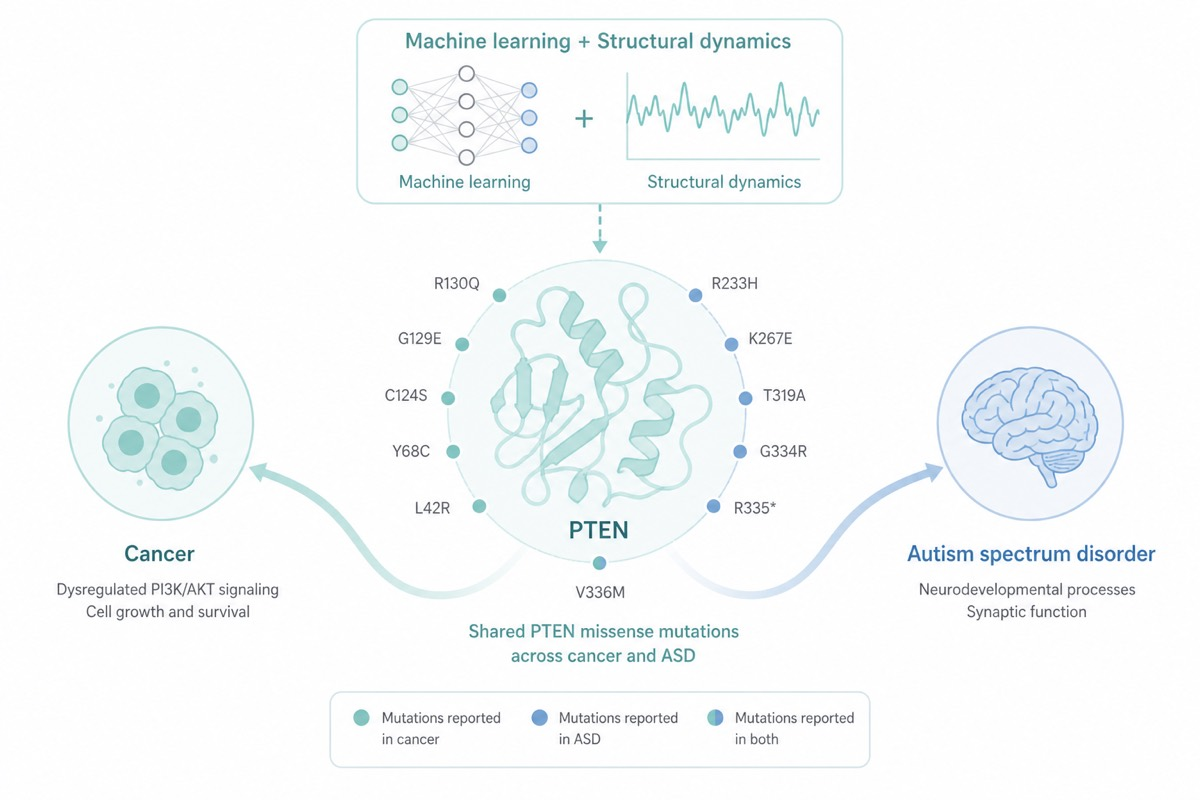
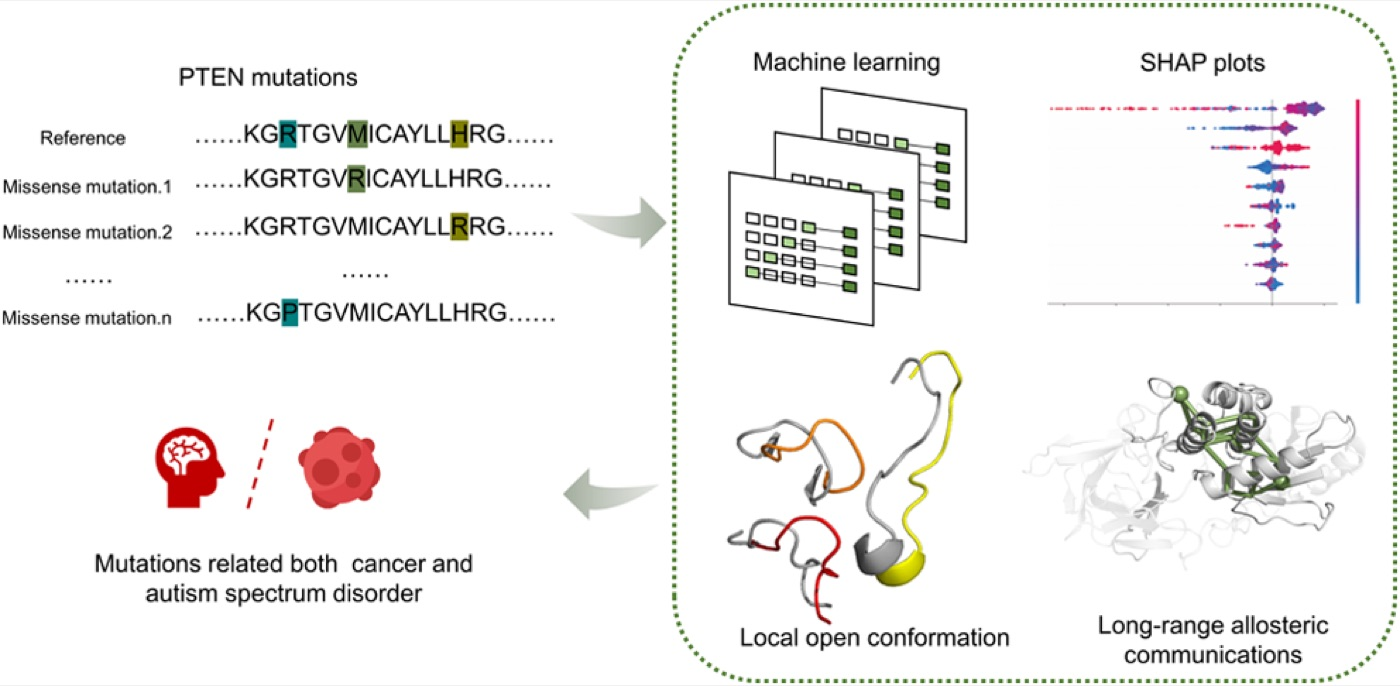
Align research rows and use paper TOC graphics for publications.

diff --git a/src/i18n.ts b/src/i18n.ts
@@ -86,15 +86,18 @@ export const copy = {
     interests: [
       {
         title: 'Multimodal integration',
-        body: 'Integrating heterogeneous biomedical modalities—especially electronic health records (EHR) and genomics—into coherent representations for discovery and clinical use.',
+        body: 'Integrating heterogeneous biomedical modalities—especially electronic health records (EHR) and genome variants—into coherent representations for discovery and clinical use.',
+        figure: '/figures/research-1.jpg',
       },
       {
         title: 'Foundation model alignment',
         body: 'Aligning foundation models and adapting them to continuous biomedical data streams and longitudinal signals.',
+        figure: '/figures/research-2.jpg',
       },
       {
         title: 'Model–device integration',
         body: 'Embedding models with instruments and devices so learning systems can operate closer to real-world measurement and care workflows.',
+        figure: '/figures/research-3.jpg',
       },
     ],
     publicationsTitle: 'Publications',
@@ -143,15 +146,18 @@ export const copy = {
     interests: [
       {
         title: '多模态整合',
-        body: '整合异构生物医学模态，尤其关注电子健康档案（EHR）与基因组学数据的联合建模。',
+        body: '整合异构生物医学模态，尤其关注电子健康档案（EHR）与基因组变异（genome variants）的联合建模。',
+        figure: '/figures/research-1.jpg',
       },
       {
         title: '基础模型对齐',
         body: '对 Foundational Model 进行对齐，并应用于连续型生物医学数据与时序信号。',
+        figure: '/figures/research-2.jpg',
       },
       {
         title: '模型与设备整合',
         body: '将模型嵌入仪器与 device，使学习系统更贴近真实测量与临床工作流。',
+        figure: '/figures/research-3.jpg',
       },
     ],
     publicationsTitle: '发表论文',

diff --git a/src/App.tsx b/src/App.tsx
@@ -113,25 +113,25 @@ export default function App() {
           <div className="section__inner">
             <h2 className="section__title">{t.researchTitle}</h2>
             <p className="section__lead">{t.researchIntro}</p>
-            <div className="research-layout">
-              <ul className="interest-list">
-                {t.interests.map((item) => (
-                  <li key={item.title} className="interest">
+            <ul className="interest-list">
+              {t.interests.map((item) => (
+                <li key={item.title} className="interest">
+                  <div className="interest__copy">
                     <h3 className="interest__title">{item.title}</h3>
                     <p className="interest__body">{item.body}</p>
-                  </li>
-                ))}
-              </ul>
-              <figure className="research-figure">
-                <img
-                  src="/figures/research-schematic.jpg"
-                  alt="Research interests schematic: multimodal EHR and genomics integration, foundation model alignment, and model-device integration"
-                  width={720}
-                  height={960}
-                  loading="lazy"
-                />
-              </figure>
-            </div>
+                  </div>
+                  <figure className="interest__figure">
+                    <img
+                      src={item.figure}
+                      alt=""
+                      width={640}
+                      height={360}
+                      loading="lazy"
+                    />
+                  </figure>
+                </li>
+              ))}
+            </ul>
           </div>
         </section>
 

diff --git a/src/index.css b/src/index.css
@@ -450,35 +450,26 @@ button {
   white-space: nowrap;
 }
 
-.research-layout {
+.interest-list {
   display: grid;
-  grid-template-columns: minmax(0, 1.15fr) minmax(0, 0.85fr);
-  gap: 1.25rem 1.75rem;
-  align-items: start;
-}
-
-.research-figure {
-  margin: 0;
-  position: sticky;
-  top: 4.5rem;
-}
-
-.research-figure img {
-  display: block;
-  width: 100%;
-  height: auto;
-  border-radius: 8px;
-  border: 1px solid var(--line);
-  background: #fff;
+  gap: 0;
 }
 
 .interest {
-  padding: 0.8rem 0;
+  display: grid;
+  grid-template-columns: minmax(0, 1.05fr) minmax(0, 0.95fr);
+  gap: 1rem 1.35rem;
+  align-items: center;
+  padding: 0.85rem 0;
   border-top: 1px solid var(--line);
 }
 
 .interest:last-child {
   border-bottom: 1px solid var(--line);
+}
+
+.interest__copy {
+  min-width: 0;
 }
 
 .interest__title {
@@ -494,6 +485,19 @@ button {
   color: var(--ink-mid);
   line-height: 1.55;
   font-size: 0.96rem;
+}
+
+.interest__figure {
+  margin: 0;
+}
+
+.interest__figure img {
+  display: block;
+  width: 100%;
+  height: auto;
+  border-radius: 8px;
+  border: 1px solid var(--line);
+  background: #fff;
 }
 
 .pub-list {
@@ -647,13 +651,15 @@ button {
   }
 
   .research-layout,
-  .pub {
+  .pub,
+  .interest {
     grid-template-columns: 1fr;
   }
 
-  .research-figure {
+  .research-figure,
+  .interest__figure {
     position: static;
-    max-width: 360px;
+    max-width: 420px;
     margin-inline: auto;
   }
 
